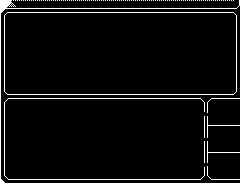
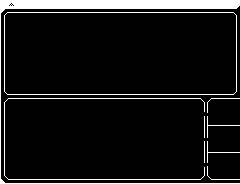
minor fix: tooltip repositions to always fit on screen, touchup hermes design

Changed region(s): [[0.0292, 0.0, 1.0, 0.0543]]

diff --git a/src/hooks/createTooltip.tsx b/src/hooks/createTooltip.tsx
@@ -11,7 +11,27 @@ export function createTooltip() {
     let tooltipRef: HTMLDivElement | undefined;
 
     const updatePosition = (e: MouseEvent) => {
-        setPosition({ x: e.clientX + TOOLTIP_OFFSET, y: e.clientY + TOOLTIP_OFFSET });
+        if(!tooltipRef) return;
+
+        let x = e.clientX + TOOLTIP_OFFSET;
+        let y = e.clientY + TOOLTIP_OFFSET;
+
+        const { width, height } = tooltipRef.getBoundingClientRect();
+
+        const windowWidth = window.innerWidth;
+        const windowHeight = window.innerHeight;
+
+        // Check if going beyond right boundary, if so, flip to left side
+        if (x + width > windowWidth) {
+            x = e.clientX - width - TOOLTIP_OFFSET;
+        }
+
+        // Check if going beyond bottom boundary, if so, flip to top side
+        if (y + height > windowHeight) {
+            y = e.clientY - height - TOOLTIP_OFFSET;
+        }
+
+        setPosition({ x, y });
     }
 
     const showTooltip = (content: () => JSX.Element) => {
@@ -44,7 +64,6 @@ export function createTooltip() {
                         // Actual specific styling should be done in base.css
                     }}
                 >
-                    {/* ???????????????????????? */}
                     {tooltipContent?.()?.()}
                 </div>
             </Portal>
@@ -52,5 +71,4 @@ export function createTooltip() {
     );
 
     return { showTooltip, hideTooltip, TooltipComponent };
-
 }
